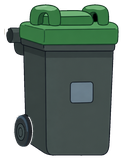
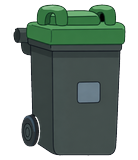
v0.17.11: match the three bin images to the same size
The three trimmed source images had genuinely different aspect ratios
(red 0.863 vs yellow 0.756, green 0.769) — the reference art wasn't
framed identically across the three. CSS renders them at a fixed
height with width: auto, so that difference showed up as red visibly
wider than yellow/green side by side.

Padded all three onto a common canvas (the largest width/height among
them), bottom-aligned so the bins sit on the same ground line rather
than floating at different heights if centered. No stretching: each
bin keeps its own drawn proportions, just sitting in a same-sized slot.

Verified in the browser: both icons on a mock Red+Yellow tile now
measure identical bounding-box dimensions.

Claude-Session: https://claude.ai/code/session_014iUJd8Z47CcbxvoSd5g2TY

diff --git a/family_panel/app/app.py b/family_panel/app/app.py
@@ -12,7 +12,7 @@ from flask import Flask, jsonify, request, send_from_directory
 import db
 from config import BASE_DIR, load_config, env
 
-APP_VERSION = "0.17.10"
+APP_VERSION = "0.17.11"
 
 CONFIG = load_config()
 db.init_db(CONFIG)
